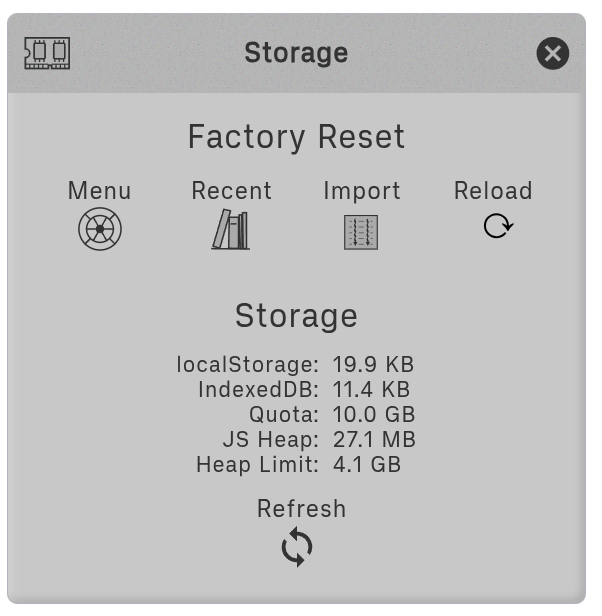
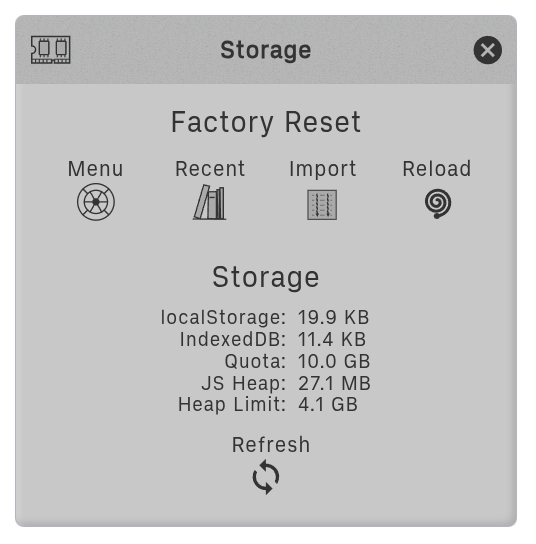
Fix for iOS rendering bug...
...had to have explicit code for hiding a detached panel...
the generic function didn't work on iOS.

diff --git a/src/common.js b/src/common.js
@@ -1712,7 +1712,7 @@ class Surface {
     `
     .Surface {
       font-size:1em;
-      position:absolute;
+      position:absolute; 
       width:8em;
       height:8em;
       z-index:100;
@@ -1780,7 +1780,8 @@ class Surface {
           surface.style.zIndex = panel.elm.style.zIndex;
           _body_.append(surface);
           _pzTarget_ = surface; // this allows pan-zooming without having to reselect
-          ScreenPanel.pzTarget = surface ; /// rem grd
+          ScreenPanel.pzTarget = surface ; 
+//          hide(this.panel.elm, dataIndex("tag", this.panel.cell.elm).cellIcon);
           hide(this.panel.elm, dataIndex("tag", this.panel.cell.elm).cellIcon);
           surface.style.left = emv.clientX - dX + "px";
           surface.style.top = emv.clientY - dY + "px";
@@ -1791,20 +1792,51 @@ class Surface {
         fling.up(eup) ;
         longPresser.cancel();
         unlisten(mv);
-        let downTime = eup.timeStamp - e.timeStamp;
         if (fling.dXY) { // fling detected
-          hide(surface, dataIndex("tag", this.panel.cell.elm).cellIcon);
+          this.hide();
           if (this.panel.constructor != ScreenPanel) ScreenPanel.update(null);
         }
-        else if (downTime < _gs_) this.onSurfaceEvent("click");
+        else if (eup.timeStamp - e.timeStamp < _gs_) this.onSurfaceEvent("click");
       }, { once: true });
     }));
     delay(2, () => this.build());
   }
 
   hide() {
-    if (this.surface.parentElement == _body_)
-      hide(this.surface, dataIndex("tag", this.panel.cell.elm).cellIcon);
+    // Animate the detached surface flying back to its menu cell, then hide it.
+    // We deliberately do NOT use the global hide(): that animates via left/top +
+    // font-size, which iOS Safari refuses to interpolate on the surface (an
+    // absolutely-positioned, composited element) — it snaps to the destination.
+    // A `transform` (translate + scale) animation is honored on iOS. That's safe
+    // here because the surface is self-positioned with no position:fixed
+    // descendants; on a Panel a wrapper transform would re-anchor its fixed child
+    // (the "glue" bug), which is why the global hide() stays left/top-based.
+    let surface = this.surface;
+    if (surface.parentElement != _body_ || surface.hiding) return;
+    surface.hiding = true;
+    let ms = 500;
+    let onElmBox = getBox(dataIndex("tag", this.panel.cell.elm).cellIcon);
+    let elmBox = getBox(surface);
+    // translate the surface's CENTER onto the cell icon's CENTER, shrinking to nothing
+    let dx = (onElmBox.x + onElmBox.width / 2) - (elmBox.x + elmBox.width / 2);
+    let dy = (onElmBox.y + onElmBox.height / 2) - (elmBox.y + elmBox.height / 2);
+    let saved = {
+      transform: surface.style.transform,
+      transition: surface.style.transition,
+      transformOrigin: surface.style.transformOrigin,
+    };
+    surface.style.transformOrigin = "center center";
+    surface.style.transform = "translate(0px, 0px) scale(1)"; // FROM
+    surface.style.transition = `transform ${ms}ms`; // default `ease`; stay opaque, scale(0) vanishes it
+    reflow();
+    surface.style.transform = `translate(${dx}px, ${dy}px) scale(0)`; // TO
+    schedule(ms, () => {
+      surface.style.visibility = "hidden";
+      surface.style.transition = saved.transition;
+      surface.style.transform = saved.transform; // reset so a later show() is clean
+      surface.style.transformOrigin = saved.transformOrigin;
+      surface.hiding = false;
+    });
   }
 
   destructor() {
@@ -2176,19 +2208,26 @@ function hide(elm, onElm) {
   // then elm's visibility will be set hidden, and its size restored.
   if (elm.hiding) return;
   else elm.hiding = true; // prevent hiding until schedule(500...) has run
-  let { left, top } = getComputedStyle(elm);
   let fontSize = elm.style.fontSize; // this MUST come from style, NOT from getComputedStyle
-  elm.style.left = left;
-  elm.style.top = top;
-  elm.style.transition = "top 10.5s, left 10.5s,font-size 10.5s, opacity 10.5s";
-  reflow();
-  let elmBox = getBox(elm);
+  let elmBox = getBox(elm); // getBox forces layout, so this is the current (source) position
   let onElmBox = getBox(onElm);
   let offsetParentBox = elm.offsetParent ? getBox(elm.offsetParent) : { x: 0, y: 0 };
+  // FROM in explicit px, derived from getBox (the SAME basis as the TO below). Do NOT
+  // read getComputedStyle(elm).left here: for a position:absolute element Safari/iOS
+  // returns the specified value ("auto"), not the used px. CSS can't transition from
+  // "auto", so on iOS left/top snapped straight to the destination while font-size/
+  // opacity still animated — the "fling plays at the destination" bug. (Chrome papers
+  // over it by returning the used px from getComputedStyle.)
+  let left = (elmBox.x - offsetParentBox.x) + "px";
+  let top  = (elmBox.y - offsetParentBox.y) + "px";
+  elm.style.left = left;
+  elm.style.top = top;
+  elm.style.transition = "top .5s, left .5s,font-size .5s, opacity .5s";
+  reflow();
   elm.style.left = (onElmBox.x + onElmBox.width / 2 - offsetParentBox.x) + "px"; 
   elm.style.top = (onElmBox.y + onElmBox.height / 2 - offsetParentBox.y) + "px";  
   elm.style.fontSize = 0;
-  schedule(10500, () => {
+  schedule(500, () => {
     elm.style.left = left;
     elm.style.visibility = "hidden";
     elm.style.top = "-9999px";

diff --git a/src/icon.js b/src/icon.js
@@ -489,7 +489,7 @@ Replace:
 
 
 Reload:
-  `<text y="17" x="4" font-size="20px">\u27f3</text>`,
+  `<path d="M 12.00,10.80 L 12.34,10.72 L 12.72,10.75 L 13.11,10.89 L 13.46,11.16 L 13.75,11.53 L 13.93,12.00 L 13.98,12.53 L 13.88,13.09 L 13.62,13.62 L 13.21,14.09 L 12.66,14.45 L 12.00,14.66 L 11.28,14.69 L 10.55,14.51 L 9.86,14.14 L 9.27,13.57 L 8.84,12.85 L 8.61,12.00 L 8.61,11.09 L 8.85,10.18 L 9.34,9.34 L 10.06,8.64 L 10.97,8.14 L 12.00,7.88 L 13.10,7.90 L 14.18,8.22 L 15.17,8.83 L 15.99,9.70 L 16.57,10.78 L 16.85,12.00 L 16.80,13.29 L 16.41,14.55 L 15.69,15.69 L 14.67,16.62 L 13.41,17.27 L 12.00,17.58 L 10.52,17.51 L 9.09,17.04 L 7.80,16.20 L 6.75,15.03 L 6.02,13.60 L 5.69,12.00 L 5.79,10.34 L 6.32,8.72 L 7.28,7.28 L 8.60,6.11 L 10.21,5.32 L 12.00,4.96 L 13.85,5.08 L 15.64,5.69 L 17.24,6.76 L 18.52,8.24 L 19.39,10.02 L 19.77,12.00 L 19.62,14.04 L 18.94,16.01 L 17.75,17.75 L 16.13,19.15 L 14.17,20.09 L 12.00,20.50" fill="none" stroke="currentColor" stroke-width="1.8" stroke-linecap="round" stroke-linejoin="round"/><circle cx="12" cy="20.5" r="1.8" fill="currentColor"/>`,
 
 Repeat:
   `<text y="19" x="6.5" font-family="Bravura" font-size="16px" fill="currentColor">\ue040</text>

diff --git a/src/panel.js b/src/panel.js
@@ -1576,7 +1576,7 @@ class StoragePanel extends Panel {
             toast("Import buffer cleared");
           } else if (tag == "Reload") {
             dialog("Confirm: restart Podium? Any unsaved changes will be lost",
-              { Restart: { svg: "Refresh" }, Cancel: { svg: "Cancel" } },
+              { Restart: { svg: "Reload" }, Cancel: { svg: "Cancel" } },
               (e, prop, tag, args) => {
                 args.close();
                 if (tag == "Restart") {

diff --git a/src/main.js b/src/main.js
@@ -164,7 +164,6 @@ class Gestures {
     listen(_body_, "pointerup", eup => {
       unlisten(mv);
       this.timer.cancel();
-      if (e.timedOut) return;
       if (!onBody) return;   // swipe gestures only from background
       let dY = eup.clientY - e.clientY;
       if (Math.abs(dY) > gestureDelta) {

diff --git a/src/tool.js b/src/tool.js
@@ -1073,6 +1073,7 @@ class Clock extends Surface {
 
   hide() {
     this.clockSchedule.cancel();
+    super.hide(); // run the Surface fly-to-cell + hide animation (don't just stop ticking)
   }
 }
 
